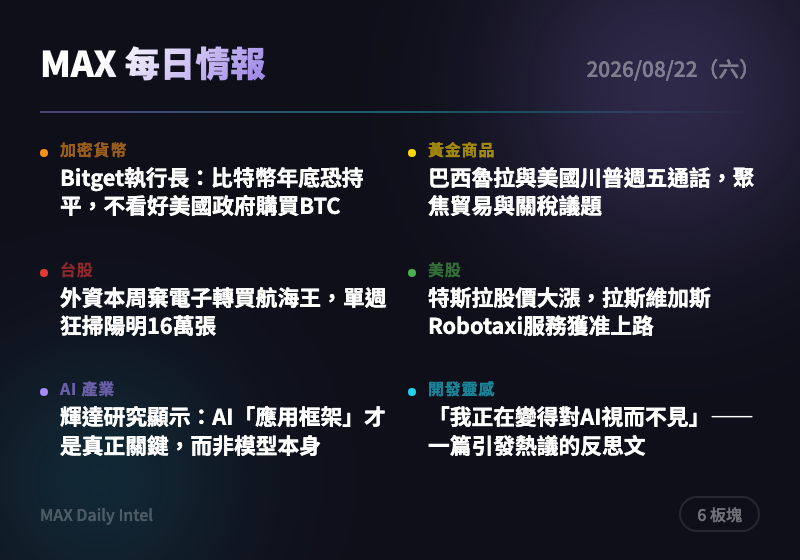
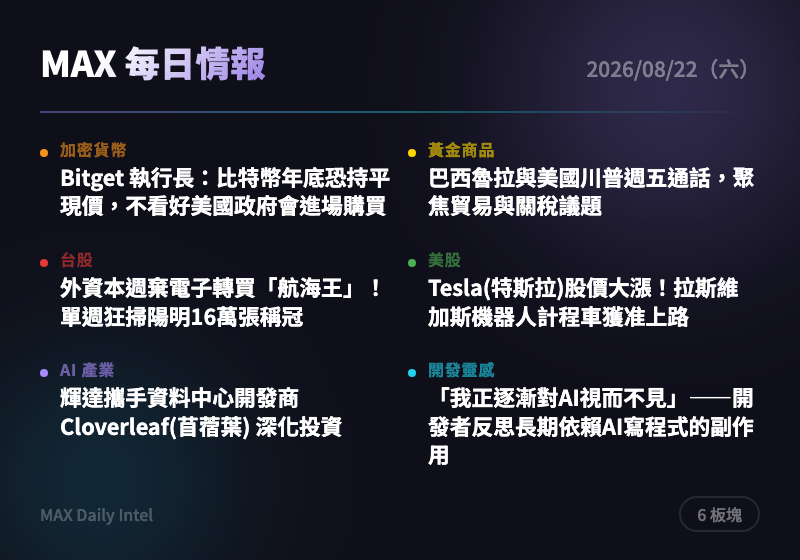
intel: 2026-08-22 每日情報自動生成

diff --git a/docs/2026-08-22.html b/docs/2026-08-22.html
@@ -318,15 +318,15 @@
     </div>
     <div class="news-card">
       <div class="source">CoinTelegraph</div>
-      <h3><a href="https://cointelegraph.com/markets/bitget-ceo-sees-bitcoin-near-current-levels-at-year-end-doubts-us-will-buy-btc?utm_source=rss_feed&utm_medium=rss&utm_campaign=rss_partner_inbound" target="_blank" rel="noopener">Bitget執行長：比特幣年底恐持平，不看好美國政府購買BTC</a></h3>
-      <div class="summary">Bitget CEO Gracy Chen (陳蕾) 表示總體經濟不確定性可能讓比特幣年底維持在現價區間（1萬至2萬美元波動），並認為美國政府未來兩年不太可能購買BTC。此說法與市場近期樂觀情緒形成對比，提供風險平衡觀點。可作為追高時的參考警示。</div>
-      <div class="tags"><span class="tag">比特幣</span><span class="tag">交易所高層</span><span class="tag">總體經濟</span><span class="tag">美國政策</span></div>
+      <h3><a href="https://cointelegraph.com/markets/bitget-ceo-sees-bitcoin-near-current-levels-at-year-end-doubts-us-will-buy-btc?utm_source=rss_feed&utm_medium=rss&utm_campaign=rss_partner_inbound" target="_blank" rel="noopener">Bitget 執行長：比特幣年底恐持平現價，不看好美國政府會進場購買</a></h3>
+      <div class="summary">Bitget執行長Gracy Chen(陳蕾)表示，總體經濟不確定性可能讓比特幣維持在現價上下1~2萬美元區間震盪，且認為美國政府未來兩年不太可能進場購買比特幣。此看法與市場近期樂觀情緒（本週大漲逾20%）形成對比，提醒投資人留意過熱風險。建議追蹤ETF資金流向以驗證機構買盤是否持續。</div>
+      <div class="tags"><span class="tag">比特幣</span><span class="tag">交易所</span><span class="tag">總體經濟</span><span class="tag">政策</span></div>
     </div>
     <div class="news-card">
       <div class="source">CoinTelegraph</div>
-      <h3><a href="https://cointelegraph.com/news/ray-dalio-buy-bitcoin-debt-crisis?utm_source=rss_feed&utm_medium=rss&utm_campaign=rss_partner_inbound" target="_blank" rel="noopener">達里歐：債務危機隱憂下，建議買入「一點」比特幣</a></h3>
-      <div class="summary">橋水基金創辦人 Ray Dalio (瑞·達里歐) 建議投資人在美國潛在債務危機下超配比特幣與黃金、減少債券部位。他身家約150億美元，其宏觀觀點常影響機構配置風向。可留意黃金與比特幣的資產替代效應是否延續。</div>
-      <div class="tags"><span class="tag">比特幣</span><span class="tag">總體經濟</span><span class="tag">債務危機</span><span class="tag">機構觀點</span></div>
+      <h3><a href="https://cointelegraph.com/news/ray-dalio-buy-bitcoin-debt-crisis?utm_source=rss_feed&utm_medium=rss&utm_campaign=rss_partner_inbound" target="_blank" rel="noopener">橋水創辦人 Ray Dalio(達里歐)：建議「小量」買進比特幣以防債務危機</a></h3>
+      <div class="summary">身家150億美元的對沖基金大老達里歐建議投資人應超配比特幣與黃金、減碼債券。此番言論出自傳統金融界重量級人物之口，等於為比特幣的「抗通膨資產」敘事再添權威背書，恰逢本週比特幣單週大漲近20%創三年最佳表現。建議可留意機構資金是否跟進流入比特幣ETF，作為趨勢是否延續的觀察指標。</div>
+      <div class="tags"><span class="tag">比特幣</span><span class="tag">總體經濟</span><span class="tag">機構投資</span><span class="tag">債務危機</span></div>
     </div>
   </section>
 
@@ -339,14 +339,14 @@
     <div class="news-card">
       <div class="source">ForexLive</div>
       <h3><a href="https://investinglive.com/news/brazil-s-lula-us-trump-held-phone-call-on-friday/" target="_blank" rel="noopener">巴西魯拉與美國川普週五通話，聚焦貿易與關稅議題</a></h3>
-      <div class="summary">巴西總統魯拉與美國總統川普週五進行電話會談，雙方討論雙邊關係及全球議題，魯拉重申希望就巴西與美國間的關稅問題展開協商。此對話顯示美巴貿易緊張情勢有望降溫，對新興市場與大宗商品貿易情緒具指標意義。可觀察後續是否有具體關稅調整措施。</div>
-      <div class="tags"><span class="tag">地緣政治</span><span class="tag">貿易</span><span class="tag">關稅</span><span class="tag">美巴關係</span></div>
+      <div class="summary">巴西總統魯拉與美國總統川普週五通電話，討論雙邊關係及全球議程，魯拉重申兩國應就關稅展開談判。此通話顯示美巴貿易緊張關係有望出現緩解跡象，對新興市場與大宗商品貿易情緒具正面意義。建議關注後續是否有具體關稅調整方案公布。</div>
+      <div class="tags"><span class="tag">地緣政治</span><span class="tag">貿易關稅</span><span class="tag">巴西</span><span class="tag">美國政策</span></div>
     </div>
     <div class="news-card">
       <div class="source">ForexLive</div>
-      <h3><a href="https://investinglive.com/news/trump-gets-rid-of-26-4-tariffs-on-imported-beef-and-prices-will-come-down-by-25/" target="_blank" rel="noopener">川普撤銷26.4%牛肉進口關稅，宣稱物價將降25%</a></h3>
-      <div class="summary">美國總統川普宣布取消對進口牛肉課徵的26.4%關稅，以緩解因美國牛群數量萎縮多年導致的牛肉價格飆漲。此舉顯示川普政府在通膨壓力下對關稅政策做出讓步，可能影響市場對其貿易強硬立場的預期。留意後續是否有更多品項關稅鬆綁，及對美元、通膨數據的連動影響。</div>
-      <div class="tags"><span class="tag">關稅</span><span class="tag">川普</span><span class="tag">通膨</span><span class="tag">貿易政策</span></div>
+      <h3><a href="https://investinglive.com/news/trump-gets-rid-of-26-4-tariffs-on-imported-beef-and-prices-will-come-down-by-25/" target="_blank" rel="noopener">川普：取消進口牛肉26.4%關稅，肉價可望下降25%</a></h3>
+      <div class="summary">美國總統川普宣布取消進口牛肉關稅，以緩解因美國牛群數量多年萎縮導致的牛肉價格飆漲問題。此舉顯示白宮在通膨壓力下對關稅政策採取選擇性讓步，可能影響市場對後續關稅談判走向的預期。可留意此舉是否為對其他商品關稅鬆綁的前兆，牽動美元與商品市場情緒。</div>
+      <div class="tags"><span class="tag">關稅</span><span class="tag">川普</span><span class="tag">通膨</span><span class="tag">美國政策</span></div>
     </div>
   </section>
 
@@ -358,15 +358,15 @@
     </div>
     <div class="news-card">
       <div class="source">經濟日報</div>
-      <h3><a href="https://money.udn.com/money/story/5607/9706975" target="_blank" rel="noopener">外資本周棄電子轉買航海王，單週狂掃陽明16萬張</a></h3>
-      <div class="summary">台股本週收45,224點，週線下跌586點終止連兩紅，外資本週買超274.45億元但資金明顯轉向航運「航海王」概念股，陽明遭買超逾16萬張居冠、貨櫃三雄全數入榜。顯示外資對電子股（尤其AI鏈）熱度降溫，轉向看好航運供需吃緊題材。可留意航運股是否延續資金動能，並觀察電子股類股輪動風險。</div>
+      <h3><a href="https://money.udn.com/money/story/5607/9706975" target="_blank" rel="noopener">外資本週棄電子轉買「航海王」！單週狂掃陽明16萬張稱冠</a></h3>
+      <div class="summary">台股本週收45,224點、上漲290點，但周線仍下跌586點；外資本週買超274.45億元，資金明顯由電子股轉向航運股，貨櫃三雄全數進榜，陽明單週買超逾16萬張居冠。此資金輪動顯示外資對AI/電子股短線轉趨保守，轉而看好航運供需吃緊題材。建議留意貨櫃三雄（陽明、萬海、長榮）後續運價與外資買盤是否延續。</div>
       <div class="tags"><span class="tag">台股</span><span class="tag">外資動向</span><span class="tag">航運股</span><span class="tag">資金輪動</span></div>
     </div>
     <div class="news-card">
       <div class="source">經濟日報</div>
-      <h3><a href="https://money.udn.com/money/story/5607/9706969" target="_blank" rel="noopener">投信由買轉賣、砍電子抱金融，台股資金風向生變</a></h3>
-      <div class="summary">台股本週下跌586點收45,224點，投信本週賣超307億元，賣超首位為聯電、其後為記憶體股旺宏與華邦電，反觀投信買超前十名幾乎全為金融股，顯示法人轉趨保守、避險傾向明顯。此為判斷後市資金風向的重要訊號，投資人可關注電子股（特別是半導體、記憶體）是否面臨進一步調節賣壓。</div>
-      <div class="tags"><span class="tag">台股</span><span class="tag">投信動向</span><span class="tag">金融股</span><span class="tag">半導體</span></div>
+      <h3><a href="https://money.udn.com/money/story/5607/9706969" target="_blank" rel="noopener">投信由買轉賣！本週砍電子股307億、轉抱金融股避風</a></h3>
+      <div class="summary">台股本週下跌586點收45,224點，投信本週大舉賣超307億元，賣超前三名為聯電、旺宏、華邦電，記憶體股遭重砍；相對地，投信買超前十名幾乎清一色是金融股，顯示法人態度轉趨保守防禦。建議留意電子權值股（尤其記憶體）短線賣壓是否持續，以及金融股是否成為資金新避風港。</div>
+      <div class="tags"><span class="tag">台股</span><span class="tag">投信動向</span><span class="tag">金融股</span><span class="tag">記憶體股</span></div>
     </div>
   </section>
 
@@ -378,15 +378,15 @@
     </div>
     <div class="news-card">
       <div class="source">MarketWatch</div>
-      <h3><a href="https://www.marketwatch.com/story/tesla-stocks-jumps-as-the-company-gets-ready-for-a-robotaxi-push-c680f87f?mod=mw_rss_topstories" target="_blank" rel="noopener">特斯拉股價大漲，拉斯維加斯Robotaxi服務獲准上路</a></h3>
-      <div class="summary">特斯拉（Tesla）獲准在內華達州部署數千輛自駕計程車，股價因此走高；公司同時計畫近期在德州奧斯汀推出Cybercab車款。此為特斯拉自駕計程車業務擴張的重要里程碑，可能重新點燃市場對其自駕故事的想像空間。建議關注後續實際上路進度與監管審核細節，避免過度樂觀定價。</div>
-      <div class="tags"><span class="tag">特斯拉</span><span class="tag">自駕車</span><span class="tag">美股</span><span class="tag">科技股</span></div>
+      <h3><a href="https://www.marketwatch.com/story/tesla-stocks-jumps-as-the-company-gets-ready-for-a-robotaxi-push-c680f87f?mod=mw_rss_topstories" target="_blank" rel="noopener">Tesla(特斯拉)股價大漲！拉斯維加斯機器人計程車獲准上路</a></h3>
+      <div class="summary">特斯拉獲准在內華達州部署數千輛自駕計程車，加上即將在德州奧斯汀推出Cybercab機器人計程車，帶動股價走高。此舉是特斯拉自駕計程車業務擴張的重要里程碑，顯示監管環境對自駕商業化逐漸鬆綁。建議關注後續在其他州的監管審批進度，作為自駕營收貢獻放大的先行指標。</div>
+      <div class="tags"><span class="tag">特斯拉</span><span class="tag">自駕車</span><span class="tag">美股</span><span class="tag">監管</span></div>
     </div>
     <div class="news-card">
       <div class="source">WSJ Markets</div>
-      <h3><a href="https://www.wsj.com/finance/investing/bond-yields-rise-despite-treasury-efforts-to-curb-borrowing-costs-8aed2b0f?mod=rss_markets_main" target="_blank" rel="noopener">公債殖利率逆勢走高，儘管財政部力圖壓低融資成本</a></h3>
-      <div class="summary">儘管美國財政部近期推出回購公債等干預措施試圖壓低長天期殖利率，公債殖利率本週仍逆勢走高，顯示市場對財政部干預效果存疑。同時加密貨幣走強、股市反彈，形成資產表現分歧格局。可留意此「非QE」操作是否能持續壓低借貸成本，或反成市場信心的隱憂訊號。</div>
-      <div class="tags"><span class="tag">公債殖利率</span><span class="tag">美國財政部</span><span class="tag">貨幣政策</span><span class="tag">美股</span></div>
+      <h3><a href="https://www.wsj.com/finance/investing/bond-yields-rise-despite-treasury-efforts-to-curb-borrowing-costs-8aed2b0f?mod=rss_markets_main" target="_blank" rel="noopener">儘管財政部出手干預，公債殖利率仍逆勢走高</a></h3>
+      <div class="summary">儘管美國財政部近期祭出措施試圖壓低長天期公債殖利率（買回操作），殖利率仍持續走高，顯示市場對政府干預的效果存疑。此現象凸顯財政部與聯準會政策立場的潛在拉扯，可能影響市場對利率路徑與通膨預期的判斷。建議關注財政部後續是否加碼干預，以及此舉對聯準會獨立性的觀感衝擊。</div>
+      <div class="tags"><span class="tag">公債殖利率</span><span class="tag">美國財政部</span><span class="tag">聯準會</span><span class="tag">總體經濟</span></div>
     </div>
   </section>
 
@@ -398,15 +398,15 @@
     </div>
     <div class="news-card">
       <div class="source">TechCrunch AI</div>
-      <h3><a href="https://techcrunch.com/2026/08/21/nvidia-just-showed-that-the-harness-not-the-ai-model-is-now-the-real-hero/" target="_blank" rel="noopener">輝達研究顯示：AI「應用框架」才是真正關鍵，而非模型本身</a></h3>
-      <div class="summary">輝達（Nvidia）最新研究指出，透過微調應用框架（harness），即使底層AI模型能力不算頂尖，AI代理人（agent）仍能穩定發揮、避免失控行為。這挑戰了「模型越強越好」的單一思維，凸顯工程設計層面對AI實際落地表現的決定性影響。對開發者而言，投資框架與流程設計可能比一味追逐更強模型更具成本效益。</div>
-      <div class="tags"><span class="tag">輝達</span><span class="tag">AI代理人</span><span class="tag">技術框架</span><span class="tag">AI產業</span></div>
+      <h3><a href="https://techcrunch.com/2026/08/21/nvidia-partners-with-data-center-developer-cloverleaf/" target="_blank" rel="noopener">輝達攜手資料中心開發商 Cloverleaf(苜蓿葉) 深化投資</a></h3>
+      <div class="summary">輝達持續加碼投資AI資料中心建設，而AI資料中心的擴張又反過來帶動輝達晶片的龐大營收，形成雙向循環的成長飛輪。此類垂直整合式投資顯示輝達不僅賣晶片，更積極卡位資料中心基礎建設的話語權。建議留意輝達此類生態圈投資是否進一步鞏固其AI供應鏈的主導地位。</div>
+      <div class="tags"><span class="tag">輝達</span><span class="tag">資料中心</span><span class="tag">AI基礎建設</span><span class="tag">投資</span></div>
     </div>
     <div class="news-card">
       <div class="source">TechCrunch AI</div>
-      <h3><a href="https://techcrunch.com/podcast/the-doj-is-investigating-a16z-what-does-this-mean-for-venture-capital/" target="_blank" rel="noopener">司法部調查a16z利益衝突，創投產業恐受牽連</a></h3>
-      <div class="summary">美國司法部（DOJ）已對創投公司Andreessen Horowitz (a16z) 展開近一年調查，起因是其兩位合夥人分別坐鎮互為競爭對手公司（Databricks與Fivetran）的董事會，可能涉及一項沿用112年的反壟斷法規。此案若成立，恐衝擊矽谷創投圈普遍存在的跨公司董事席位安排慣例，值得關注後續調查結果對創投治理模式的影響。</div>
-      <div class="tags"><span class="tag">創投</span><span class="tag">反壟斷</span><span class="tag">監管</span><span class="tag">a16z</span></div>
+      <h3><a href="https://techcrunch.com/2026/08/21/nvidia-just-showed-that-the-harness-not-the-ai-model-is-now-the-real-hero/" target="_blank" rel="noopener">輝達研究揭示：AI「執行框架」而非模型本身才是真正關鍵</a></h3>
+      <div class="summary">輝達研究顯示，即使AI模型本身能力不算頂尖，只要透過良好的執行框架（harness）與微調，AI代理人（agent）仍能穩定發揮並避免失控。此發現挑戰「模型越強越好」的既有思維，凸顯工程層面（agent框架設計）在AI應用落地中的重要性不亞於底層模型。對企業佈局AI代理人產品的團隊而言，此為調整資源投入方向的重要參考。</div>
+      <div class="tags"><span class="tag">輝達</span><span class="tag">AI代理人</span><span class="tag">AI研究</span><span class="tag">技術框架</span></div>
     </div>
   </section>
 
@@ -418,15 +418,15 @@
     </div>
     <div class="news-card">
       <div class="source">Hacker News Best</div>
-      <h3><a href="https://cymerys.com/w/im-becoming-ai-blind" target="_blank" rel="noopener">「我正在變得對AI視而不見」——一篇引發熱議的反思文</a></h3>
-      <div class="summary">一篇部落格文章描述作者在大量使用AI工具後逐漸產生「AI視盲」現象，引發Hacker News熱烈討論（218分、224則留言）。文章反映開發者社群對過度依賴AI工具可能導致技能退化或注意力鈍化的憂慮，值得AI重度使用者參考自我提醒。</div>
-      <div class="tags"><span class="tag">AI反思</span><span class="tag">開發者文化</span><span class="tag">生產力</span></div>
+      <h3><a href="https://cymerys.com/w/im-becoming-ai-blind" target="_blank" rel="noopener">「我正逐漸對AI視而不見」——開發者反思長期依賴AI寫程式的副作用</a></h3>
+      <div class="summary">作者分享長期依賴AI協作寫程式後，逐漸喪失獨立閱讀與判斷程式碼細節能力的親身經驗，文章在Hacker News獲得高度共鳴（218分、224則留言）。此現象反映開發者社群開始反思過度依賴AI編碼工具可能帶來的技能退化風險。對管理AI輔助開發流程的團隊而言，值得思考如何在效率與工程師核心能力保留間取得平衡。</div>
+      <div class="tags"><span class="tag">AI輔助開發</span><span class="tag">開發者社群</span><span class="tag">技能退化</span><span class="tag">工具依賴</span></div>
     </div>
     <div class="news-card">
       <div class="source">Hacker News Best</div>
-      <h3><a href="https://www.danielvaughn.dev/posts/huzzah/" target="_blank" rel="noopener">Show HN：Huzzah——一種全新的AI協作寫程式方式</a></h3>
-      <div class="summary">一位開發者發布實驗性編輯器Huzzah，反思自今年初起幾乎全靠AI編碼代理工作後產生的疲乏感：雖然AI代理很強大，但每次改動都要打完整句子指令逐漸令人厭倦，且程式碼庫超過一定複雜度後代理容易「自我混淆」。此文引發廣泛討論（224則留言），反映開發者社群對現有AI協作工作流的反思與工具創新需求。</div>
-      <div class="tags"><span class="tag">AI編碼</span><span class="tag">開發工具</span><span class="tag">使用者反思</span></div>
+      <h3><a href="https://annas-archive.pk/blog/physical-destruction.html" target="_blank" rel="noopener">AI公司正在銷毀實體書籍——搶在為時已晚前掃描珍稀書籍</a></h3>
+      <div class="summary">文章指出部分AI公司為取得訓練資料，正在物理銷毀掃描後的實體書籍，引發保存珍稀書籍的呼籲。此議題觸及AI訓練資料取得方式的倫理與文化保存爭議，在Hacker News上引發高度討論（近700分、多達825則留言於另一篇同主題貼文）。建議關注後續是否有版權方或圖書館機構對此類做法提出正式回應或法律行動。</div>
+      <div class="tags"><span class="tag">AI倫理</span><span class="tag">版權爭議</span><span class="tag">資料取得</span><span class="tag">開發者社群</span></div>
     </div>
   </section>
 

diff --git a/docs/cards/2026-08-22-card.html b/docs/cards/2026-08-22-card.html
@@ -23,11 +23,11 @@ body{width:400px;height:280px;font-family:'Noto Sans TC',-apple-system,sans-seri
 <div class="content">
 <div class="top-row"><span class="title">MAX 每日情報</span><span class="date">2026/08/22（六）</span></div>
 <div class="divider"></div>
-<div class="grid"><div class="cell"><div class="dot" style="background:#f7931a"></div><div><div class="label" style="color:#f7931a">加密貨幣</div><div class="headline">Bitget執行長：比特幣年底恐持平，不看好美國政府購買BTC</div></div></div>
+<div class="grid"><div class="cell"><div class="dot" style="background:#f7931a"></div><div><div class="label" style="color:#f7931a">加密貨幣</div><div class="headline">Bitget 執行長：比特幣年底恐持平現價，不看好美國政府會進場購買</div></div></div>
 <div class="cell"><div class="dot" style="background:#ffd700"></div><div><div class="label" style="color:#ffd700">黃金商品</div><div class="headline">巴西魯拉與美國川普週五通話，聚焦貿易與關稅議題</div></div></div>
-<div class="cell"><div class="dot" style="background:#e53935"></div><div><div class="label" style="color:#e53935">台股</div><div class="headline">外資本周棄電子轉買航海王，單週狂掃陽明16萬張</div></div></div>
-<div class="cell"><div class="dot" style="background:#4caf50"></div><div><div class="label" style="color:#4caf50">美股</div><div class="headline">特斯拉股價大漲，拉斯維加斯Robotaxi服務獲准上路</div></div></div>
-<div class="cell"><div class="dot" style="background:#a78bfa"></div><div><div class="label" style="color:#a78bfa">AI 產業</div><div class="headline">輝達研究顯示：AI「應用框架」才是真正關鍵，而非模型本身</div></div></div>
-<div class="cell"><div class="dot" style="background:#22d3ee"></div><div><div class="label" style="color:#22d3ee">開發靈感</div><div class="headline">「我正在變得對AI視而不見」——一篇引發熱議的反思文</div></div></div></div>
+<div class="cell"><div class="dot" style="background:#e53935"></div><div><div class="label" style="color:#e53935">台股</div><div class="headline">外資本週棄電子轉買「航海王」！單週狂掃陽明16萬張稱冠</div></div></div>
+<div class="cell"><div class="dot" style="background:#4caf50"></div><div><div class="label" style="color:#4caf50">美股</div><div class="headline">Tesla(特斯拉)股價大漲！拉斯維加斯機器人計程車獲准上路</div></div></div>
+<div class="cell"><div class="dot" style="background:#a78bfa"></div><div><div class="label" style="color:#a78bfa">AI 產業</div><div class="headline">輝達攜手資料中心開發商 Cloverleaf(苜蓿葉) 深化投資</div></div></div>
+<div class="cell"><div class="dot" style="background:#22d3ee"></div><div><div class="label" style="color:#22d3ee">開發靈感</div><div class="headline">「我正逐漸對AI視而不見」——開發者反思長期依賴AI寫程式的副作用</div></div></div></div>
 <div class="bottom-row"><span class="url">MAX Daily Intel</span><span class="badge">6 板塊</span></div>
 </div></body></html>
